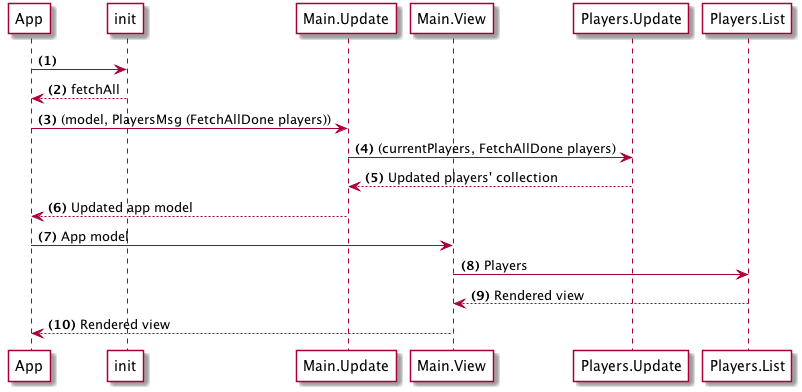
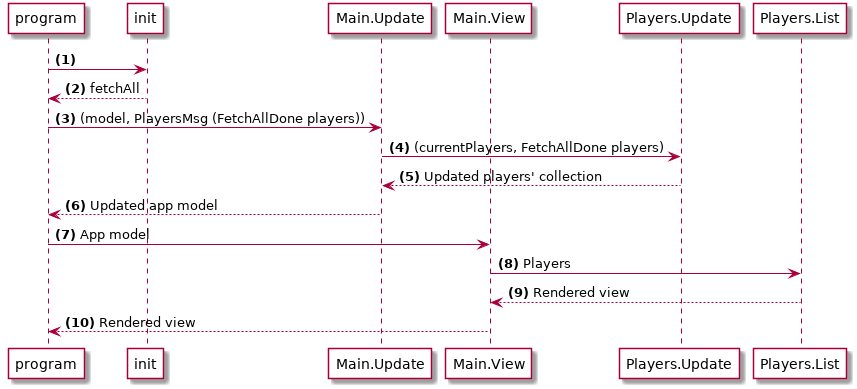
Update chapter 6 FR with latest changes

diff --git a/fr/06-recuperation-ressources/04-commandes-joueurs.md b/fr/06-recuperation-ressources/04-commandes-joueurs.md
@@ -1,4 +1,4 @@
-> This page covers Elm 0.17
+> Cette page couvre Elm 0.18
 
 # Commandes Joueurs
 
@@ -8,16 +8,15 @@ Maintenant, il nous faut créer les tâches et les commandes pour récupérer le
 module Players.Commands exposing (..)
 
 import Http
-import Json.Decode as Decode exposing ((:=))
-import Task
+import Json.Decode as Decode exposing (field)
 import Players.Models exposing (PlayerId, Player)
 import Players.Messages exposing (..)
 
 
 fetchAll : Cmd Msg
 fetchAll =
-    Http.get collectionDecoder fetchAllUrl
-        |> Task.perform FetchAllFail FetchAllDone
+    Http.get fetchAllUrl collectionDecoder 
+        |> Http.send OnFetchAll
 
 
 fetchAllUrl : String
@@ -32,10 +31,10 @@ collectionDecoder =
 
 memberDecoder : Decode.Decoder Player
 memberDecoder =
-    Decode.object3 Player
-        ("id" := Decode.int)
-        ("name" := Decode.string)
-        ("level" := Decode.int)
+    Decode.map3 Player
+        (field "id" Decode.string)
+        (field "name" Decode.string)
+        (field "level" Decode.int)
 ```
 ---
 
@@ -44,8 +43,8 @@ memberDecoder =
 ```elm
 fetchAll : Cmd Msg
 fetchAll =
-    Http.get collectionDecoder fetchAllUrl
-        |> Task.perform FetchAllFail FetchAllDone
+    Http.get fetchAllUrl collectionDecoder 
+        |> Http.send OnFetchAll
 ```
 
 Ici, on crée une commande exécutable par noter application :
@@ -64,10 +63,10 @@ Ce décodeur délègue le décodage de chaque membre de la liste à `memberDecod
 ```elm
 memberDecoder : Decode.Decoder Player
 memberDecoder =
-    Decode.object3 Player
-        ("id" := Decode.int)
-        ("name" := Decode.string)
-        ("level" := Decode.int)
+    Decode.map3 Player
+        (field "id" Decode.string)
+        (field "name" Decode.string)
+        (field "level" Decode.int)
 ```
 
 `memberDecoder` crée un décodeur JSON qui retourne un enregistrement de type `Player`.
@@ -90,7 +89,7 @@ Puis, définissez une chaîne Json :
 Ainsi qu'un décodeur pour extraire l'`id` :
 
 ```bash
-> idDecoder = ("id" := int)
+> idDecoder = (field "id" int)
 ```
 
 Cela crée un décodeur qui, lorsqu'on lui donne une chaîne, essaie d'extraire la clef `id` et de l'interpréter comme un entier.
@@ -102,7 +101,7 @@ Exécutez le décodeur pour voir le résultat :
 Ok 99 : Result.Result String Int
 ```
 
-On obtient `Ok 99`, ce qui signifie que le décodage a réussi et que la valeur obtenue est `99`. Voilà la fonction de `("id" := Decode.int)` : créer un décodeur pour une clef.
+On obtient `Ok 99`, ce qui signifie que le décodage a réussi et que la valeur obtenue est `99`. Voilà le rôle de `(field "id" Decode.int)` : créer un décodeur pour une clef.
 
 Tout ça n'est que la première partie du travail. Pour la deuxième partie, définissez un type :
 
@@ -122,11 +121,11 @@ Pour essayer, faites :
 En utilisant ces deux concepts, créons un décodeur complet :
 
 ```bash
-> nameDecoder = ("name" := string)
-> playerDecoder = object2 Player idDecoder nameDecoder
+> nameDecoder = (field "name" string)
+> playerDecoder = map2 Player idDecoder nameDecoder
 ```
 
-La fonction `object2` prend une fonction (ici, `Player`) en premier argument et deux décodeurs. Puis, elle exécute les décodeurs et passe les résultats en argument à la fonction (`Player`).
+La fonction `map2` prend une fonction (ici, `Player`) en premier argument et deux décodeurs. Puis, elle exécute les décodeurs et passe les résultats en argument à la fonction (`Player`).
 
 Pour essayer, faites :
 
@@ -137,4 +136,4 @@ Ok { id = 99, name = "Sam" } : Result.Result String Repl.Player
 
 ---
 
-Rappelez-vous que rien de tout cela n'est vraiment exécuté tant que la commande n'est pas envoyée à __Html.App__.
+Rappelez-vous que rien de tout cela n'est vraiment exécuté tant que la commande n'est pas envoyée à __program__.

diff --git a/fr/06-recuperation-ressources/03-mise-a-jour-joueurs.md b/fr/06-recuperation-ressources/03-mise-a-jour-joueurs.md
@@ -1,6 +1,8 @@
+> Cette page couvre Elm 0.18
+
 # Mise à jour Joueurs
 
-Quand la requête pour les Joueurs est réussie, on envoie le message `FetchAllDone`.
+Quand la requête pour les Joueurs est réussie, on envoie le message `OnFetchAll`.
 
 __src/Players/Update.elm__ doit prendre ce message en compte. Modifiez `update` comme suit :
 
@@ -9,13 +11,15 @@ __src/Players/Update.elm__ doit prendre ce message en compte. Modifiez `update` 
 update : Msg -> List Player -> ( List Player, Cmd Msg )
 update message players =
     case message of
-        FetchAllDone newPlayers ->
+        OnFetchAll (Ok newPlayers) ->
             ( newPlayers, Cmd.none )
 
-        FetchAllFail error ->
+        OnFetchAll (Err error) ->
             ( players, Cmd.none )
 ```
 
-Le message `FetchAllDone` a la liste des Joueurs récupérés : on renvoie donc cette donnée pour mettre à jour la collection des Joueurs.
+Lorsque nous recevons le message `OnFetchAll`, nous pouvons utiliser le pattern matching pour décider la marche à suivre.
 
-`FetchAllFail` est utilisé en cas d'erreur. Pour l'instant, nous nous contenterons de retourner la liste que nous avions avant la requête qui a échoué.
+Dans le cas `Ok`, nous retournons la liste des joueurs récupérés afin de mettre à jour la collection des joueurs.
+
+Dans le cas `Err`, pour l'instant, nous retournons juste la liste que nous avions auparavant. Une meilleure approche serait d'afficher un message d'erreur à l'utilisateur, mais pour garder ce tutoriel simple, nous avons choisi de ne pas le faire.

diff --git a/fr/06-recuperation-ressources/01-plan.md b/fr/06-recuperation-ressources/01-plan.md
@@ -1,3 +1,5 @@
+> Cette page couvre Elm 0.18
+
 # Plan
 
 La première étape est de récupérer une liste des joueurs depuis la fausse API que nous avons créée plus tôt.
@@ -6,7 +8,7 @@ Voilà le plan :
 
 ![Plan](01-plan.png)
 
-(1-2) Quand l'application se charge, on déclenche une commande pour initier une requête HTTP pour récupérer les joueurs. Cela sera fait dans la fonction `init` de Html.App.
+(1-2) Quand l'application se charge, on déclenche une commande pour initier une requête HTTP pour récupérer les joueurs. Cela sera fait dans la fonction `init` de `Html.program`.
 
 (3-6) Quand la requête a été effectuée, on envoie un message `FetchAllDone` avec les données ; ce message arrive jusqu'à `Players.Update` qui met à jour la collection de Joueurs.
 
@@ -17,5 +19,5 @@ Voilà le plan :
 Nous aurons besoin du paquet `http`. Pour l'installer, lancez :
 
 ```bash
-elm package install evancz/elm-http
+elm package install elm-lang/http
 ```

diff --git a/fr/06-recuperation-ressources/02-messages-joueurs.md b/fr/06-recuperation-ressources/02-messages-joueurs.md
@@ -1,3 +1,5 @@
+> Cette page couvre Elm 0.18
+
 # Messages Joueurs
 
 D'abord, créons les messages dont nous avons besoin pour récupérer les Joueurs. Ajoutez un nouvel import et un nouveau message à __src/Players/Messages.elm__ :
@@ -10,10 +12,7 @@ import Players.Models exposing (PlayerId, Player)
 
 
 type Msg
-    = FetchAllDone (List Player)
-    | FetchAllFail Http.Error
+    = OnFetchAll (Result Http.Error (List Player))
 ```
 
-`FetchAllDone` sera appelé quand nous obtiendrons la réponse du serveur. Ce message transportera la liste des Joueurs récupérée.
-
-`FetchAllFail` sera appelé s'il y a un problème avec la récupération des données.
+`OnFetchAll` sera appelé lorsque nous recevrons une réponse du serveur. Ce message contiendra un `Result`, qui sera ou un `Http.Error` ou la liste des joueurs récupérée.

diff --git a/fr/06-recuperation-ressources/06-essayez.md b/fr/06-recuperation-ressources/06-essayez.md
@@ -1,19 +1,15 @@
+> Cette page couvre Elm 0.18
+
 # Essayez
 
-Essayez vous-même ! Lancez la fausse API dans un terminal en exécutant :
+Essayez vous-même ! Lancez l'application dans un terminal en exécutant :
 
 ```bash
-npm run api
-```
-
-Puis lancez l'application (si elle n'est pas déjà lancée) dans un autre terminal :
-
-```bash
-npm run dev
+nf start
 ```
 
 Rafraîchissez le navigateur : notre application devrait aller récupérer la liste des joueurs sur le serveur. L'application devrait ressembler à ça.
 
 ![Capture d'écran](capture.png)
 
-Le code de l'application devrait ressembler à cela : <https://github.com/sporto/elm-tutorial-app/tree/05-fetch>.
+Le code de l'application devrait ressembler à cela : <https://github.com/sporto/elm-tutorial-app/tree/018-05-fetch>.

diff --git a/fr/06-recuperation-ressources/cover.md b/fr/06-recuperation-ressources/cover.md
@@ -2,4 +2,4 @@
 
 Ce chapitre présente comment récupérer la collection des joueurs depuis la fausse API.
 
-Jusqu'ici, votre application devrait ressembler à cela : <https://github.com/sporto/elm-tutorial-app/tree/04-resources>
+Jusqu'ici, votre application devrait ressembler à cela : <https://github.com/sporto/elm-tutorial-app/tree/018-04-resources>

diff --git a/fr/06-recuperation-ressources/05-main.md b/fr/06-recuperation-ressources/05-main.md
@@ -1,3 +1,5 @@
+> Cette page couvre Elm 0.18
+
 # Main
 
 ## Modèle Main
